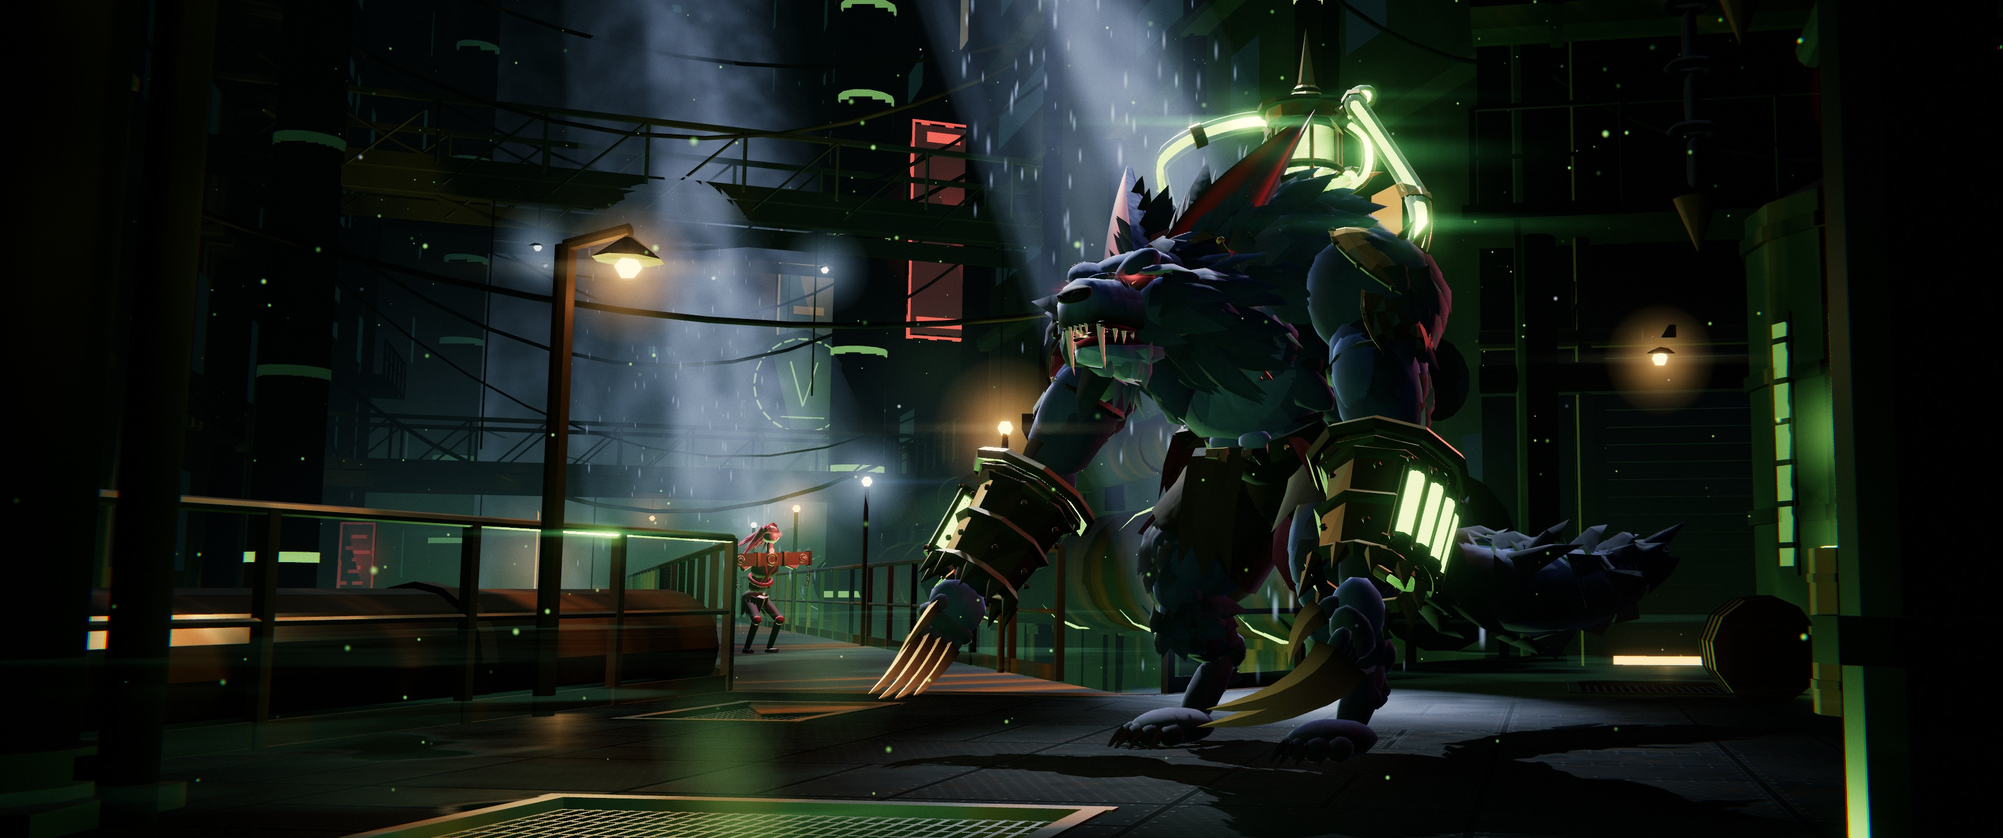
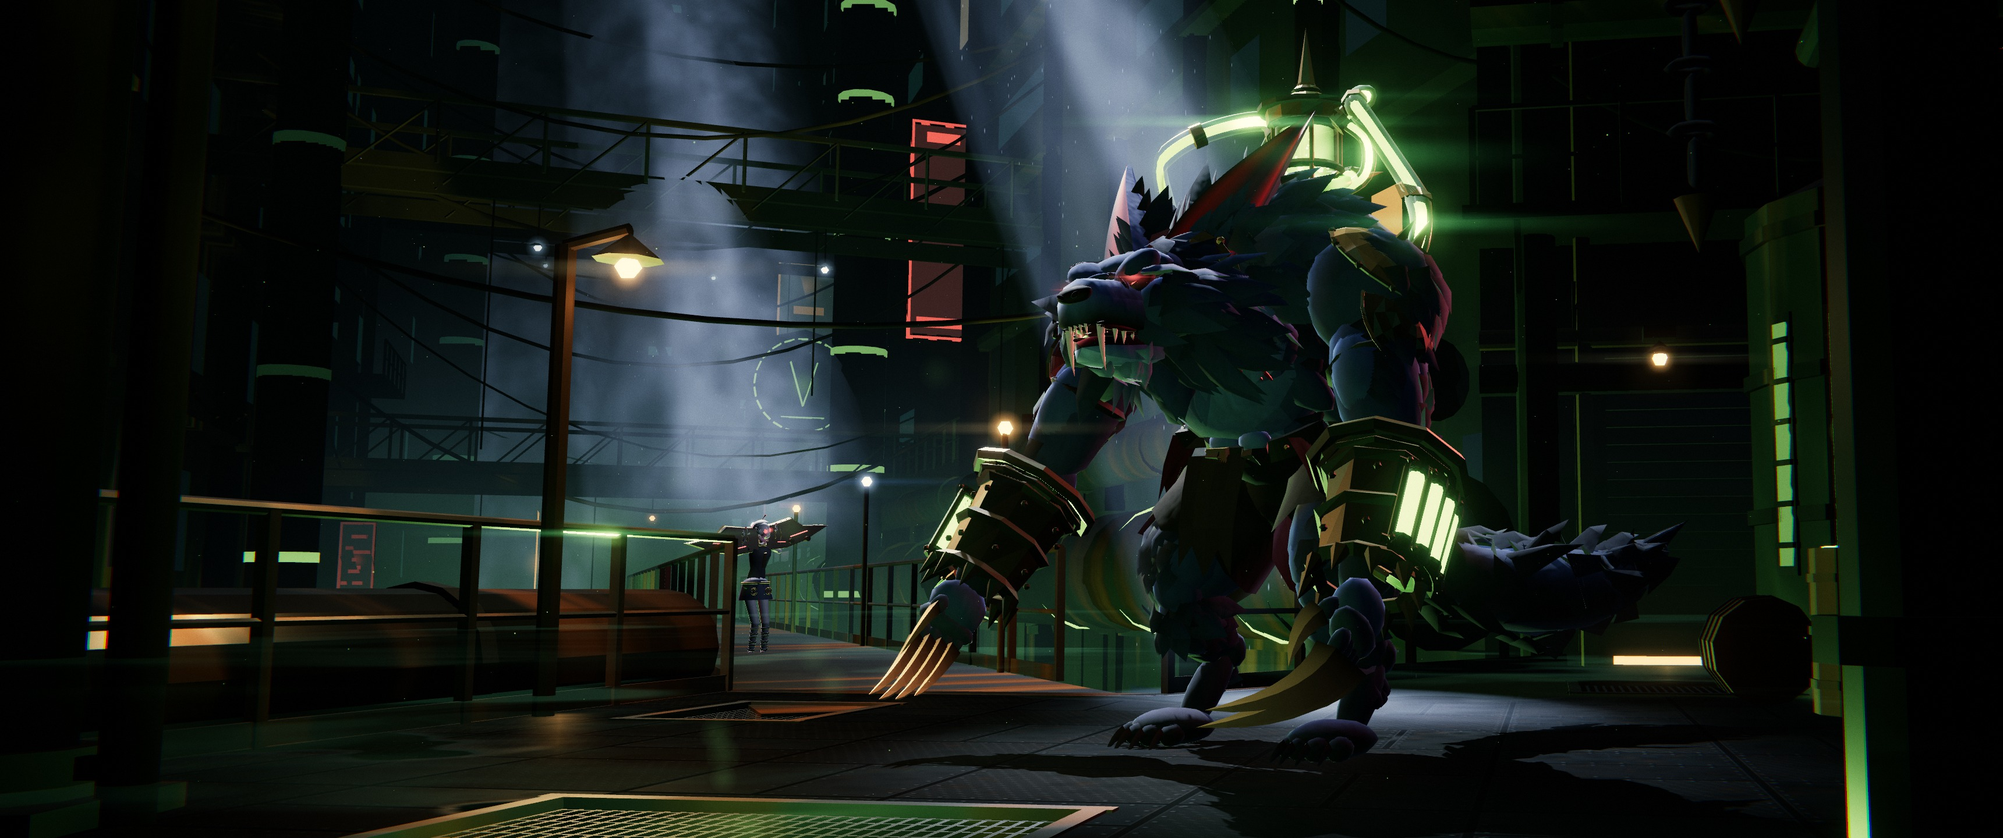
Warwick wallpaper: Briar refaite d'après son modèle, améliorations générales
Briar : pilori en ailes liseré d'or, carré blanc aux pointes roses, posture
de prédatrice. Grille du premier plan atténuée, pointes de la queue de
Warwick assombries.

Claude-Session: https://claude.ai/code/session_015rtHMTQk7EmEte1NuaCJ7u

diff --git a/warwick-wallpaper/js/briar.js b/warwick-wallpaper/js/briar.js
@@ -1,72 +1,86 @@
-/* Briar — la Faim sans entrave, tapie au fond de la ruelle, mains et cou pris dans son pilori.
-   Silhouette d'arrière-plan : lisible par sa forme (pilori, cheveux écarlates, yeux rouges), peu coûteuse.
+/* Briar — la Faim sans entrave, au fond de la ruelle, prisonnière de son pilori en forme d'ailes.
+   D'après son modèle de jeu (référence visuelle seulement, tout est modélisé ici) : peau pâle lavande,
+   carré blanc argenté aux pointes roses, grands yeux rouges, pilori sombre liseré d'or fendu de rouge,
+   mains bloquées de part et d'autre de la tête, haut sombre, short bouffant à boucles dorées, jambes bandées.
    Contrat : WW.createBriar(THREE, opts) -> { root, update(state) } */
 (() => {
 'use strict';
 const WW = window.WW = window.WW || {};
-WW.createBriar = function (THREE, opts) {
+WW.createBriar = function (THREE) {
   const V = (x, y, z) => new THREE.Vector3(x, y, z);
-  const std = (color, o) => new THREE.MeshStandardMaterial(Object.assign({ color, roughness: 0.75, metalness: 0 }, o || {}));
+  const std = (color, o) => new THREE.MeshStandardMaterial(Object.assign({ color, roughness: 0.7, metalness: 0 }, o || {}));
   const M = {
-    skin: std(0xcdb9bd, { roughness: 0.55 }),
-    hair: std(0xa3182e, { roughness: 0.6, emissive: 0x3a0510, emissiveIntensity: 0.6 }),
-    hairD: std(0x5c0a18, { roughness: 0.7 }),
-    cloth: std(0x1a0c12), clothR: std(0x6e0f1e, { roughness: 0.6 }),
-    wood: std(0x4b2d1c, { roughness: 0.85 }),
-    gold: std(0x8a6a34, { metalness: 0.8, roughness: 0.35 }),
-    iron: std(0x3c3c44, { metalness: 0.8, roughness: 0.45 }),
-    gem: new THREE.MeshStandardMaterial({ color: 0xff2030, emissive: 0xff1028, emissiveIntensity: 2.2 }),
+    skin: std(0xb9adbd, { roughness: 0.5 }),
+    hair: std(0xffffff, { roughness: 0.55, vertexColors: true }),
+    top: std(0x1c1a22, { roughness: 0.6 }),
+    shorts: std(0x1d1f33, { roughness: 0.65 }),
+    wrap: std(0x111015, { roughness: 0.8 }),
+    gold: std(0xa8803e, { metalness: 0.85, roughness: 0.32 }),
+    board: std(0x2a1d18, { metalness: 0.35, roughness: 0.55 }),
+    boardD: std(0x17100d, { metalness: 0.4, roughness: 0.5 }),
+    rune: new THREE.MeshStandardMaterial({ color: 0xff2a3c, emissive: 0xff1030, emissiveIntensity: 2.0 }),
+    eye: new THREE.MeshBasicMaterial({ color: 0xff4060 }),
+    nail: std(0x8a1428, { roughness: 0.4 }),
   };
   const root = new THREE.Group();
   const grp = (parent, p, r) => { const g = new THREE.Group(); if (p) g.position.copy(p); if (r) g.rotation.set(r[0], r[1], r[2]); parent.add(g); return g; };
   const mesh = (parent, geo, mat, p, r, s) => {
     const m = new THREE.Mesh(geo, mat);
     if (p) m.position.copy(p); if (r) m.rotation.set(r[0], r[1], r[2]); if (s) m.scale.set(s[0], s[1], s[2]);
-    m.castShadow = false; m.receiveShadow = false; parent.add(m); return m;
+    parent.add(m); return m;
   };
   const UP = V(0, 1, 0), _d = V(0, 0, 0);
-  // cylindre effilé entre deux points (repère du parent)
-  const seg = (parent, a, b, r0, r1, mat) => {
+  // membre effilé et arrondi (cylindre + rotules) entre deux points du repère parent
+  const limb = (parent, a, b, r0, r1, mat, caps) => {
     _d.subVectors(b, a); const len = _d.length();
-    const m = mesh(parent, new THREE.CylinderGeometry(r1, r0, len, 7), mat);
+    const m = mesh(parent, new THREE.CylinderGeometry(r1, r0, len, 12, 1, true), mat);
     m.position.copy(a).addScaledVector(_d, 0.5);
-    m.quaternion.setFromUnitVectors(UP, _d.normalize());
+    m.quaternion.setFromUnitVectors(UP, _d.clone().normalize());
+    if (caps !== false) { mesh(parent, new THREE.SphereGeometry(r0, 12, 8), mat, a); mesh(parent, new THREE.SphereGeometry(r1, 12, 8), mat, b); }
     return m;
   };
-  const sph = (r, w, h) => new THREE.SphereGeometry(r, w || 10, h || 8);
+  const sph = (r, w, h) => new THREE.SphereGeometry(r, w || 16, h || 12);
 
-  /* ---------- Corps, accroupie, prête à bondir ---------- */
-  const hips = grp(root, V(0, 0.62, 0));
-  mesh(hips, sph(0.15), M.cloth, null, null, [1.1, 0.8, 0.9]);
-  // jupe en lambeaux
-  for (let i = 0; i < 9; i++) {
-    const a = (i / 9) * Math.PI * 2;
-    mesh(hips, new THREE.ConeGeometry(0.06, 0.26, 4), i % 3 ? M.cloth : M.clothR,
-      V(Math.sin(a) * 0.13, -0.1, Math.cos(a) * 0.12), [Math.PI + Math.cos(a) * 0.35, 0, -Math.sin(a) * 0.35]);
+  /* ---------- Bassin et jambes : debout, genoux un peu fléchis, pieds tournés en dedans ---------- */
+  const hips = grp(root, V(0, 0.765, 0));
+  // short bouffant
+  mesh(hips, new THREE.CylinderGeometry(0.15, 0.2, 0.2, 16, 1), M.shorts, V(0, -0.06, 0));
+  mesh(hips, sph(0.15), M.shorts, V(0, 0.02, 0), null, [1.05, 0.6, 0.85]);
+  for (const s of [-1, 1]) {
+    mesh(hips, new THREE.TorusGeometry(0.035, 0.008, 6, 12), M.gold, V(s * 0.09, -0.06, 0.15), [0, 0, 0]); // boucles
+    limb(hips, V(s * 0.09, -0.01, 0.15), V(s * 0.09, -0.12, 0.155), 0.01, 0.01, M.gold, false);
   }
+  mesh(hips, new THREE.TorusGeometry(0.16, 0.012, 6, 20), M.gold, V(0, 0.04, 0), [Math.PI / 2, 0, 0]); // ceinture
   const legs = [];
   for (const s of [-1, 1]) {
-    const thigh = grp(hips, V(s * 0.09, -0.02, 0), [-1.0, 0, s * 0.12]);
-    seg(thigh, V(0, 0, 0), V(0, -0.42, 0), 0.07, 0.055, M.cloth);
-    const knee = grp(thigh, V(0, -0.42, 0), [1.6, 0, 0]);
-    seg(knee, V(0, 0, 0), V(0, -0.42, 0), 0.05, 0.035, M.cloth);
-    mesh(knee, sph(0.055, 7, 5), M.clothR, V(0, 0, 0.01));
-    const foot = grp(knee, V(0, -0.42, 0), [-0.6, 0, 0]);
-    mesh(foot, new THREE.BoxGeometry(0.07, 0.05, 0.18), M.cloth, V(0, -0.02, 0.06));
-    legs.push({ thigh, knee });
+    const hip = grp(hips, V(s * 0.085, -0.1, 0), [-0.35, 0, -s * 0.06]);
+    limb(hip, V(0, 0, 0), V(0, -0.36, 0.0), 0.065, 0.048, M.skin);
+    const knee = grp(hip, V(0, -0.36, 0), [0.6, 0, s * 0.1]);
+    limb(knee, V(0, 0, 0), V(0, -0.36, 0), 0.046, 0.032, M.skin);
+    // bandes noires croisées et jambières à pointes
+    for (let i = 0; i < 6; i++) mesh(knee, new THREE.TorusGeometry(0.044 - i * 0.002, 0.009, 5, 14), M.wrap, V(0, -0.06 - i * 0.05, 0), [Math.PI / 2 + (i % 2 ? 0.25 : -0.25), 0, 0]);
+    mesh(knee, new THREE.ConeGeometry(0.012, 0.07, 5), M.wrap, V(s * 0.04, -0.3, -0.01), [0, 0, -s * 1.4]);
+    const foot = grp(knee, V(0, -0.36, 0), [-0.25, -s * 0.35, 0]);
+    mesh(foot, sph(0.042, 12, 8), M.wrap, V(0, -0.02, 0.03), null, [0.9, 0.55, 1.5]);
+    mesh(foot, sph(0.03, 10, 6), M.skin, V(0, -0.035, 0.09), null, [1, 0.5, 1]); // orteils nus
+    legs.push({ hip, knee });
   }
-  const spine = grp(hips, V(0, 0.05, 0), [0.6, 0, 0]);
-  mesh(spine, sph(0.13), M.cloth, V(0, 0.18, 0), null, [1, 1.3, 0.8]);
-  const chest = mesh(spine, sph(0.15), M.cloth, V(0, 0.38, 0.01), null, [1.15, 0.9, 0.8]);
-  mesh(spine, new THREE.TorusGeometry(0.13, 0.025, 5, 14), M.clothR, V(0, 0.22, 0), [Math.PI / 2, 0, 0]); // ceinture
-  for (const s of [-1, 1]) seg(spine, V(s * 0.08, 0.5, 0.08), V(-s * 0.06, 0.18, 0.12), 0.02, 0.02, M.clothR); // rubans croisés
 
-  /* ---------- Tête et cheveux écarlates ---------- */
-  const neck = grp(spine, V(0, 0.55, 0.02), [-0.5, 0, 0]);
-  seg(neck, V(0, 0, 0), V(0, 0.17, 0), 0.04, 0.035, M.skin);
-  const head = grp(neck, V(0, 0.22, 0.01));
-  mesh(head, sph(0.105, 12, 10), M.skin, V(0, 0.04, 0), null, [0.9, 1, 0.95]);
-  mesh(head, new THREE.ConeGeometry(0.06, 0.09, 6), M.skin, V(0, -0.03, 0.04), [Math.PI + 0.3, 0, 0]); // menton
+  /* ---------- Buste ---------- */
+  const spine = grp(hips, V(0, 0.05, 0), [0.35, 0, 0]);
+  // buste d'un seul tenant : taille fine, poitrine, épaules (profil tourné)
+  const prof = [[0.0, 0.0], [0.11, 0.0], [0.1, 0.08], [0.085, 0.17], [0.11, 0.27], [0.125, 0.34], [0.12, 0.4], [0.07, 0.45], [0.0, 0.46]].map(p => new THREE.Vector2(p[0], p[1]));
+  mesh(spine, new THREE.LatheGeometry(prof, 18), M.top, V(0, 0, 0), null, [1.1, 1, 0.72]);
+  mesh(spine, new THREE.CylinderGeometry(0.05, 0.065, 0.06, 12), M.top, V(0, 0.46, 0)); // col montant
+  mesh(spine, new THREE.TorusGeometry(0.055, 0.008, 6, 14), M.gold, V(0, 0.47, 0), [Math.PI / 2, 0, 0]);
+  mesh(spine, new THREE.BoxGeometry(0.03, 0.18, 0.01), M.gold, V(0, 0.31, 0.11)); // lacet doré
+
+  /* ---------- Tête ---------- */
+  const neck = grp(spine, V(0, 0.48, 0), [-0.32, 0, 0]);
+  limb(neck, V(0, 0, 0), V(0, 0.07, 0.005), 0.032, 0.03, M.skin, false);
+  const head = grp(neck, V(0, 0.15, 0.01));
+  mesh(head, sph(0.1, 20, 16), M.skin, V(0, 0, 0), null, [0.92, 1, 0.95]);
+  mesh(head, sph(0.06, 14, 10), M.skin, V(0, -0.055, 0.035), null, [1, 0.8, 0.9]); // joues, menton
   const glowTex = (() => {
     const c = document.createElement('canvas'); c.width = c.height = 32;
     const g = c.getContext('2d'), gr = g.createRadialGradient(16, 16, 0, 16, 16, 16);
@@ -74,90 +88,129 @@ WW.createBriar = function (THREE, opts) {
     g.fillStyle = gr; g.fillRect(0, 0, 32, 32); return new THREE.CanvasTexture(c);
   })();
   const eyes = [-1, 1].map(s => {
-    mesh(head, sph(0.012, 6, 4), new THREE.MeshBasicMaterial({ color: 0xff3040 }), V(s * 0.038, 0.05, 0.088));
-    const sp = new THREE.Sprite(new THREE.SpriteMaterial({ map: glowTex, color: 0xff2030, blending: THREE.AdditiveBlending, depthWrite: false, transparent: true }));
-    sp.position.set(s * 0.038, 0.05, 0.1); sp.scale.setScalar(0.09); head.add(sp); return sp;
+    mesh(head, sph(0.022, 12, 8), M.eye, V(s * 0.038, 0.0, 0.082), [0, s * 0.35, 0], [1, 1.15, 0.45]);
+    const sp = new THREE.Sprite(new THREE.SpriteMaterial({ map: glowTex, color: 0xff2040, blending: THREE.AdditiveBlending, depthWrite: false, transparent: true }));
+    sp.position.set(s * 0.038, 0, 0.1); sp.scale.setScalar(0.07); head.add(sp); return sp;
   });
-  const hair = grp(head, V(0, 0.08, -0.02));
-  let seed = 31;
+
+  // Cheveux : carré gonflé blanc argenté, pointes roses (dégradé par sommet)
+  const hairWhite = new THREE.Color(0xe9e4ee), hairPink = new THREE.Color(0xe0507a);
+  const tipGeo = (r, len) => {
+    const g = new THREE.ConeGeometry(r, len, 6, 3);
+    const pos = g.attributes.position, col = new Float32Array(pos.count * 3), c = new THREE.Color();
+    for (let i = 0; i < pos.count; i++) {
+      const u = 0.5 - pos.getY(i) / len; // 0 à la racine, 1 à la pointe
+      c.copy(hairWhite).lerp(hairPink, Math.max(0, (u - 0.45) / 0.55));
+      col.set([c.r, c.g, c.b], i * 3);
+    }
+    g.setAttribute('color', new THREE.BufferAttribute(col, 3));
+    g.translate(0, -len / 2, 0); // la racine à l'origine, la mèche pend vers -y
+    return g;
+  };
+  const capGeo = new THREE.SphereGeometry(0.112, 20, 14, 0, Math.PI * 2, 0, Math.PI * 0.4);
+  { const n = capGeo.attributes.position.count; const col = new Float32Array(n * 3); for (let i = 0; i < n; i++) col.set([hairWhite.r, hairWhite.g, hairWhite.b], i * 3); capGeo.setAttribute('color', new THREE.BufferAttribute(col, 3)); }
+  mesh(head, capGeo, M.hair, V(0, 0.01, -0.012), [-0.55, 0, 0], [1.06, 1.05, 1.1]);
+  mesh(head, capGeo, M.hair, V(0, -0.02, -0.03), [-1.5, 0, 0], [1.08, 1.0, 1.05]); // arrière du carré
+  let seed = 233;
   const rnd = () => ((seed = (seed * 16807) % 2147483647) / 2147483647);
   const strands = [];
-  for (let i = 0; i < 22; i++) {
-    const a = -1.3 + (i / 21) * 2.6, back = 0.25 + rnd() * 0.35;
-    const g = grp(hair, V(Math.sin(a) * 0.09, 0.02 + rnd() * 0.03, Math.cos(a) * 0.05 - 0.03), [-(1.9 + rnd() * 0.5), Math.sin(a) * 0.4, -Math.sin(a) * 0.5]);
-    const len = 0.28 + rnd() * 0.32;
-    mesh(g, new THREE.ConeGeometry(0.035 + rnd() * 0.02, len, 5), rnd() > 0.3 ? M.hair : M.hairD, V(0, len / 2, 0));
-    g.userData = { base: g.rotation.x, ph: rnd() * 6.28, back };
+  for (let i = 0; i < 26; i++) {
+    const a = (i / 26) * Math.PI * 2, front = Math.cos(a) > 0.55;
+    const len = front ? 0.08 + rnd() * 0.04 : 0.15 + rnd() * 0.07;
+    const g = grp(head, V(Math.sin(a) * 0.095, 0.03 + rnd() * 0.02, Math.cos(a) * 0.09 - 0.005));
+    const m = mesh(g, tipGeo(0.03 + rnd() * 0.012, len), M.hair);
+    m.rotation.set(Math.cos(a) * (front ? 0.5 : 0.35), 0, -Math.sin(a) * 0.45);
+    g.userData = { ph: rnd() * 6.28, m, bx: m.rotation.x, bz: m.rotation.z };
     strands.push(g);
   }
-  for (let i = 0; i < 5; i++) mesh(hair, new THREE.ConeGeometry(0.025, 0.12, 4), M.hair, V(-0.06 + i * 0.03, 0.0, 0.08), [1.9, 0, (i - 2) * 0.2]); // mèches
+  // l'épi sur le dessus
+  mesh(head, tipGeo(0.012, 0.09), M.hair, V(0.01, 0.12, 0.0), [-2.4, 0, 0.3]);
 
-  /* ---------- Pilori : planche de bois cerclée d'or, cou et poignets pris ---------- */
-  const pillory = grp(spine, V(0, 0.54, 0.06), [-0.6, 0, 0]);
-  mesh(pillory, new THREE.BoxGeometry(1.0, 0.15, 0.07), M.wood);
-  for (const x of [-0.5, -0.17, 0.17, 0.5]) mesh(pillory, new THREE.BoxGeometry(0.035, 0.17, 0.085), M.gold, V(x, 0, 0));
-  mesh(pillory, new THREE.TorusGeometry(0.06, 0.018, 6, 14), M.gold, V(0, 0, 0.04));
-  mesh(pillory, sph(0.03, 8, 6), M.gem, V(0, 0.1, 0.03));
-  for (const s of [-1, 1]) mesh(pillory, new THREE.TorusGeometry(0.04, 0.014, 5, 12), M.gold, V(s * 0.4, 0, 0.04));
-  // bras levés jusqu'aux trous de la planche (repère de la colonne)
+  /* ---------- Pilori en ailes, derrière la nuque ---------- */
+  const pillory = grp(spine, V(0, 0.5, -0.06), [-0.3, 0, 0.05]);
+  const wing = (sx, sy) => {
+    const sh = new THREE.Shape();
+    sh.moveTo(0, -0.11 * sy);
+    sh.lineTo(0.32 * sx, -0.12 * sy); sh.lineTo(0.58 * sx, -0.06 * sy); sh.lineTo(0.9 * sx, 0.07 * sy);
+    sh.lineTo(0.56 * sx, 0.1 * sy); sh.lineTo(0.42 * sx, 0.2 * sy); sh.lineTo(0.2 * sx, 0.16 * sy); sh.lineTo(0, 0.14 * sy);
+    sh.lineTo(-0.2 * sx, 0.16 * sy); sh.lineTo(-0.42 * sx, 0.2 * sy); sh.lineTo(-0.56 * sx, 0.1 * sy); sh.lineTo(-0.9 * sx, 0.07 * sy);
+    sh.lineTo(-0.58 * sx, -0.06 * sy); sh.lineTo(-0.32 * sx, -0.12 * sy); sh.closePath();
+    return sh;
+  };
+  const boardShape = wing(1, 1);
+  const neckHole = new THREE.Path(); neckHole.absarc(0, 0, 0.05, 0, Math.PI * 2, true); boardShape.holes.push(neckHole);
+  const board = new THREE.ExtrudeGeometry(boardShape, { depth: 0.07, bevelEnabled: true, bevelThickness: 0.012, bevelSize: 0.012, bevelSegments: 2, curveSegments: 10 });
+  board.translate(0, 0, -0.035);
+  mesh(pillory, board, M.board);
+  const rim = new THREE.ExtrudeGeometry(wing(1.035, 1.12), { depth: 0.05, bevelEnabled: false });
+  rim.translate(0, 0, -0.025);
+  mesh(pillory, rim, M.gold, V(0, 0, -0.012));
+  // fentes rouges lumineuses et gros rivets
   for (const s of [-1, 1]) {
-    const sh = V(s * 0.17, 0.48, 0.0), el = V(s * 0.33, 0.43, 0.08), wr = V(s * 0.4, 0.54, 0.06);
-    mesh(spine, sph(0.05, 7, 5), M.cloth, sh);
-    seg(spine, sh, el, 0.04, 0.032, M.skin);
-    seg(spine, el, wr, 0.032, 0.025, M.skin);
-    // main qui dépasse devant la planche, griffes rouges
-    const hand = grp(pillory, V(s * 0.4, 0, 0.07));
-    mesh(hand, sph(0.035, 7, 5), M.skin, null, null, [1, 0.8, 0.7]);
-    for (let k = 0; k < 4; k++) mesh(hand, new THREE.ConeGeometry(0.007, 0.06, 4), M.clothR, V((k - 1.5) * 0.015, -0.03, 0.025), [Math.PI - 0.4, 0, 0]);
+    mesh(pillory, new THREE.BoxGeometry(0.24, 0.012, 0.01), M.rune, V(s * 0.5, 0.02, 0.05), [0, 0, s * 0.18]);
+    mesh(pillory, new THREE.BoxGeometry(0.1, 0.01, 0.01), M.rune, V(s * 0.26, -0.05, 0.05), [0, 0, -s * 0.1]);
+    for (const x of [0.4, 0.62]) mesh(pillory, new THREE.CylinderGeometry(0.032, 0.032, 0.11, 12), M.boardD, V(s * x, -0.055, 0), [Math.PI / 2, 0, 0]);
+    mesh(pillory, new THREE.TorusGeometry(0.045, 0.012, 6, 14), M.gold, V(s * 0.22, 0.04, 0.05)); // anneau du poignet
   }
-  // chaînes brisées qui pendent des extrémités
-  const chains = [];
-  const linkGeo = new THREE.TorusGeometry(0.022, 0.006, 4, 8);
+  mesh(pillory, new THREE.TorusGeometry(0.058, 0.012, 6, 16), M.gold, V(0, 0, 0.05));
+
+  /* ---------- Bras : mains bloquées de part et d'autre de la tête, paumes ouvertes ---------- */
+  const fingers = [];
   for (const s of [-1, 1]) {
-    let parent = grp(pillory, V(s * 0.49, -0.07, 0));
-    const links = [];
-    for (let i = 0; i < 7; i++) {
-      const l = grp(parent, V(0, i ? -0.038 : 0, 0));
-      mesh(l, linkGeo, M.iron, V(0, -0.019, 0), [0, i % 2 ? Math.PI / 2 : 0, Math.PI / 2]);
-      links.push(l); parent = l;
+    const sh = V(s * 0.15, 0.42, -0.01), el = V(s * 0.27, 0.36, -0.03);
+    mesh(spine, sph(0.045, 12, 8), M.top, sh, null, [1, 0.8, 1]);
+    limb(spine, sh, el, 0.035, 0.028, M.skin);
+    // l'avant-bras remonte vers l'anneau du pilori (repère de la colonne : anneau à ~(±0.22, 0.54, -0.01))
+    limb(spine, el, V(s * 0.22, 0.54, -0.01), 0.028, 0.022, M.skin);
+    const hand = grp(pillory, V(s * 0.22, 0.1, 0.06), [0.15, 0, s * 0.25]);
+    mesh(hand, sph(0.03, 12, 8), M.skin, null, null, [1, 1.1, 0.55]);
+    for (let k = 0; k < 4; k++) {
+      const f = grp(hand, V((k - 1.5) * 0.016, 0.025, 0.0), [-0.15, 0, (k - 1.5) * 0.18]);
+      limb(f, V(0, 0, 0), V(0, 0.045, 0.006), 0.007, 0.005, M.skin, false);
+      mesh(f, new THREE.ConeGeometry(0.0055, 0.022, 5), M.nail, V(0, 0.056, 0.008));
+      fingers.push(f);
     }
-    chains.push(links);
+    const th = grp(hand, V(s * -0.028, 0.0, 0.01), [0, 0, s * 0.9]);
+    limb(th, V(0, 0, 0), V(0, 0.035, 0.005), 0.007, 0.005, M.skin, false);
   }
 
   /* ---------- Lumière rouge qui la détache du brouillard ---------- */
-  const glow = new THREE.PointLight(0xff2a3a, 1.6, 4.5, 2);
-  glow.position.set(0.4, 1.4, 0.9); root.add(glow);
+  const glow = new THREE.PointLight(0xff2a3a, 1.2, 4.5, 2);
+  glow.position.set(-0.3, 1.7, -0.7); root.add(glow);
+  const fill = new THREE.PointLight(0xc8d4ff, 0.7, 3.5, 2); fill.position.set(0.5, 1.6, 1.4); root.add(fill);
+  root.traverse(o => { if (o.isMesh) { o.castShadow = false; o.receiveShadow = false; } });
 
   /* ---------- Animation ---------- */
-  const palBlood = new THREE.Color();
   function update(state) {
     const t = state.t, h = state.hunt, howl = state.howl;
-    const br = Math.sin(t * 2.1 + 0.6);
-    // faim : petit spasme irrégulier toutes les quelques secondes
+    const br = Math.sin(t * 2.2 + 0.6);
+    // faim : spasme irrégulier toutes les quelques secondes
     const tw = Math.pow(Math.max(0, Math.sin(t * 0.37) * Math.sin(t * 1.13 + 1)), 6);
-    hips.position.y = 0.62 + br * 0.008 - h * 0.04 - howl * 0.03;
-    spine.rotation.x = 0.6 + br * 0.02 + h * 0.08 + tw * 0.12;
-    spine.rotation.y = Math.sin(t * 0.29) * 0.08;
-    // elle tourne la tête vers Warwick quand il hurle, sinon elle épie
-    neck.rotation.y = Math.sin(t * 0.41) * 0.35 * (1 - howl) + howl * 0.55;
-    neck.rotation.x = -0.5 - howl * 0.15 + tw * 0.2;
-    head.rotation.z = Math.sin(t * 0.53) * 0.12 + tw * Math.sin(t * 31) * 0.05;
-    for (const l of legs) { l.thigh.rotation.x = -1.0 - h * 0.08; l.knee.rotation.x = 1.6 + h * 0.12; }
+    hips.position.y = 0.765 + br * 0.005 - h * 0.07 + Math.sin(t * 0.31) * 0.006;
+    hips.rotation.z = Math.sin(t * 0.31) * 0.04;
+    spine.rotation.x = 0.35 + br * 0.015 + h * 0.18 + tw * 0.1;
+    spine.rotation.y = Math.sin(t * 0.27) * 0.1;
+    for (const l of legs) { l.hip.rotation.x = -0.35 - h * 0.25; l.knee.rotation.x = 0.6 + h * 0.45; }
+    // elle tourne la tête vers Warwick quand il hurle, sinon elle épie en penchant la tête
+    neck.rotation.y = Math.sin(t * 0.41) * 0.3 * (1 - howl) + howl * 0.5;
+    neck.rotation.x = -0.32 - h * 0.12 + tw * 0.25 - howl * 0.1;
+    head.rotation.z = Math.sin(t * 0.53) * 0.22 + tw * Math.sin(t * 31) * 0.06;
+    pillory.rotation.z = 0.05 + Math.sin(t * 0.31) * 0.03 + tw * Math.sin(t * 27) * 0.03;
     for (const g of strands) {
       const u = g.userData;
-      g.rotation.x = u.base + Math.sin(t * 1.3 + u.ph) * 0.06 + h * 0.08 * u.back;
+      u.m.rotation.x = u.bx + Math.sin(t * 1.4 + u.ph) * 0.05;
+      u.m.rotation.z = u.bz + Math.sin(t * 1.1 + u.ph) * 0.04;
     }
-    chains.forEach((links, ci) => links.forEach((l, i) => {
-      l.rotation.z = Math.sin(t * 1.7 + ci * 2 + i * 0.4) * (0.08 + howl * 0.25) + tw * 0.15;
-      l.rotation.x = Math.sin(t * 1.1 + ci + i * 0.3) * 0.06;
-    }));
-    palBlood.copy(state.palette.blood);
-    const eyeI = 0.08 + h * 0.05 + howl * 0.04 + Math.sin(t * 5) * 0.006;
-    for (const e of eyes) { e.scale.setScalar(eyeI); e.material.color.copy(palBlood); }
-    M.gem.emissive.copy(palBlood);
-    M.gem.emissiveIntensity = 1.8 + h * 1.5 + state.audio.beat * 1.5;
-    glow.color.copy(palBlood);
-    glow.intensity = 1.4 + h * 2.2 + howl * 1.2;
+    const grip = 0.5 + 0.5 * Math.sin(t * 0.9) * Math.sin(t * 0.23);
+    for (const f of fingers) f.rotation.x = -0.15 - grip * 0.5 - tw * 0.4;
+    const blood = state.palette.blood;
+    const eyeI = 0.065 + h * 0.05 + howl * 0.03 + Math.sin(t * 5) * 0.004;
+    for (const e of eyes) { e.scale.setScalar(eyeI); e.material.color.copy(blood); }
+    M.eye.color.copy(blood).lerp(hairPink, 0.3);
+    M.rune.emissive.copy(blood);
+    M.rune.emissiveIntensity = 1.6 + h * 1.8 + state.audio.beat * 1.5;
+    glow.color.copy(blood);
+    glow.intensity = 1.0 + h * 2.0 + howl * 1.0;
   }
   return { root, update };
 };

diff --git a/warwick-wallpaper/js/environment.js b/warwick-wallpaper/js/environment.js
@@ -419,7 +419,7 @@ const abyss = (x, y) => 0.35 + 0.65 * smooth(-22, 4, y);
    ====================================================================== */
 const deckTex = deckTextures(), grateTex = grateTexture();
 const DECK = [[-4.6, 12], [-4.6, -3.4], [-1.4, -3.4], [1.6, -8.6], [12, -8.6], [12, 12]];
-const GRATES = [{ x: -1.15, z: 2.75, w: 1.9, d: 1.1, steam: true }, { x: 2.15, z: -4.9, w: 1.5, d: 1.5 }, { x: -3.3, z: -1.6, w: 1.0, d: 1.4 }];
+const GRATES = [{ x: -1.15, z: 2.75, w: 1.9, d: 1.1, steam: true, glow: 0.4 }, { x: 2.15, z: -4.9, w: 1.5, d: 1.5 }, { x: -3.3, z: -1.6, w: 1.0, d: 1.4 }];
 const deckShape = new THREE.Shape();
 DECK.forEach(([x, z], i) => (i ? deckShape.lineTo(x, -z) : deckShape.moveTo(x, -z)));
 for (const g of GRATES) {
@@ -470,7 +470,7 @@ grateMat.customProgramCacheKey = () => 'zaun-grate';
     for (const [px, pz, sx, sz] of [[g.x, z0, g.w, 0.04], [g.x, z1, g.w, 0.04], [x0, g.z, 0.04, g.d], [x1, g.z, 0.04, g.d]]) {
       B.near.add(G.box, M(px, -depth / 2, pz, 0, 0, 0, sx, depth, sz), C.steelDark);
     }
-    B.glow.add(G.plane, M(g.x, -depth + 0.02, g.z, -PI / 2, 0, 0, g.w, g.d, 1), lin(0.95, 0.95, 0.95), FX_CHEM);
+    { const k = 0.95 * (g.glow || 1); B.glow.add(G.plane, M(g.x, -depth + 0.02, g.z, -PI / 2, 0, 0, g.w, g.d, 1), lin(k, k, k), FX_CHEM); } // la grille au premier plan, plus discrète
     // cadre de la grille
     for (const [px, pz, sx, sz] of [[g.x, z0, g.w + 0.12, 0.08], [g.x, z1, g.w + 0.12, 0.08], [x0, g.z, 0.08, g.d], [x1, g.z, 0.08, g.d]]) {
       B.near.add(G.box, M(px, -0.015, pz, 0, 0, 0, sx, 0.05, sz), C.steel);

diff --git a/warwick-wallpaper/js/warwick.js b/warwick-wallpaper/js/warwick.js
@@ -987,7 +987,7 @@ for (const s of SIDES) fur(core, PEC[s], 11, {
 });
 // queue : grandes mèches larges couchées le long du panache (flux continu vers la pointe), peu soulevées
 const tailRoot = (p, nn, out) => out.copy(C.furD).lerp(C.furN, nn.y > 0 ? 0.45 : 0);
-const tailTip = (p, nn, out) => out.copy(C.furD).lerp(C.furN, 0.5 + 0.3 * rnd()).multiplyScalar(nn.y > 0.3 ? 0.8 : nn.y < -0.2 ? 0.65 : 0.9);
+const tailTip = (p, nn, out) => out.copy(C.furD).lerp(C.furN, 0.5 + 0.3 * rnd()).multiplyScalar(nn.y > 0.3 ? 0.55 : nn.y < -0.2 ? 0.5 : 0.65); // pointes sombres : plus d'éclats de verre dans le puits de lumière
 for (let i = 0; i < TAIL_N; i++) {
   const a = TAILP[i], b = TAILP[i + 1], d = b.clone().sub(a).normalize(), R = TAIL_R[i];
   const n = Math.round(3 + 13 * R), tip = Math.max(0, i - (TAIL_N - 4)) / 3; // 0 → 1 sur les trois derniers tronçons
